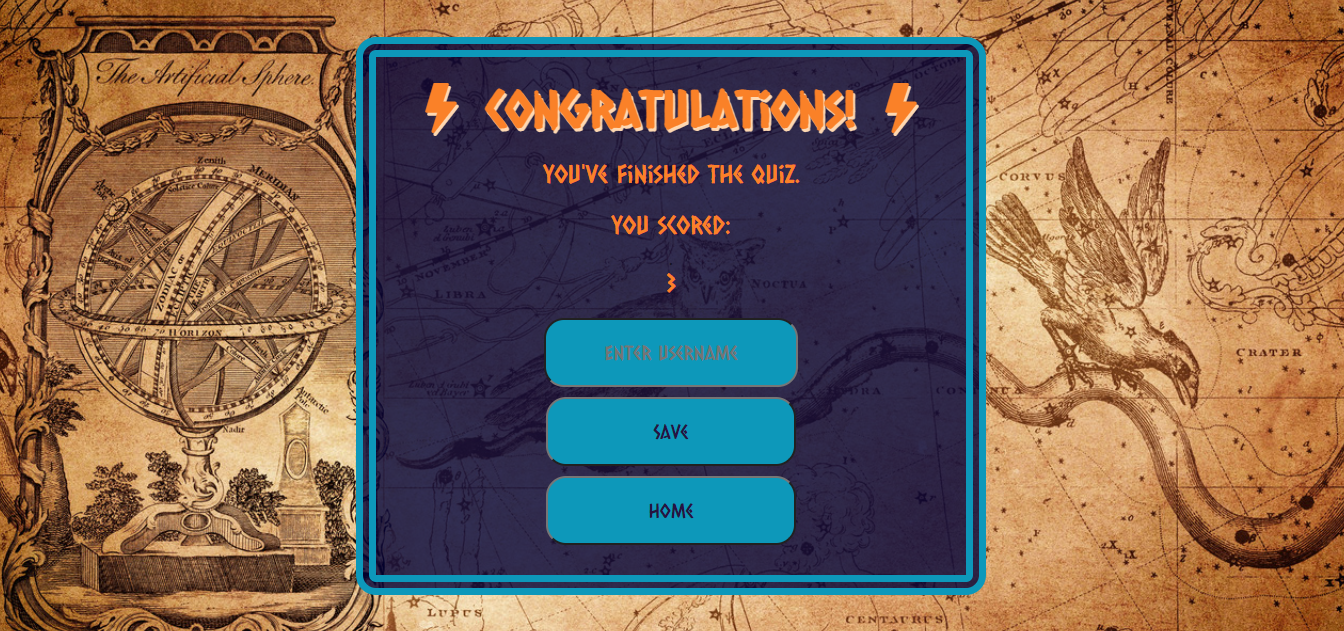
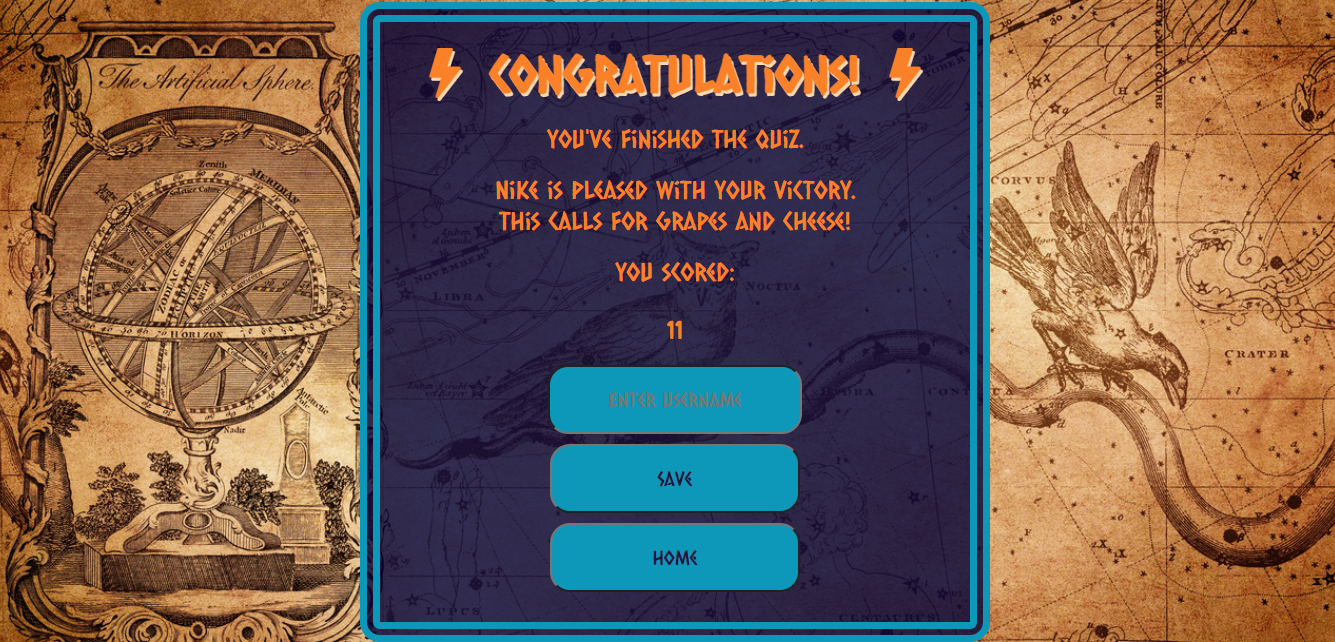
readme & personalised messages based on scores

diff --git a/assets/js/script.js b/assets/js/script.js
@@ -367,6 +367,7 @@ const updateQuestionNumber = document.getElementById('questionNumber');
 const question=document.getElementById('question');
 const answers=document.getElementById('answer-container');
 const wholeScore=document.getElementById('wholeScore');
+const scoreComment=document.getElementById('scoreComment');
 
 //Different 'page' containers
 
@@ -385,7 +386,7 @@ const homeButtonEnd=document.getElementById('homeButtonEnd');
 //Quiz features
 
 let questionCounter=0;
-let numberOfQuestions=1;
+let numberOfQuestions=15;
 let currentQuestion;
 let availableQuestions=[];
 let availableAnswers=[];
@@ -470,6 +471,15 @@ function newQuestion () {
         gamePage.classList.add('hide');
         endPage.classList.remove('hide');
         wholeScore.innerHTML=score;
+    if (score >=0 && score <=5) {
+        scoreComment.innerHTML="Speak to Mimir to gain some knowledge!";
+    }
+    if (score >=6 && score <=10) {
+        scoreComment.innerHTML="Keep trying like Huracan;<br>he got there eventually!"
+    }
+    else if (score>=11) {
+        scoreComment.innerHTML="Nike is pleased with your victory.<br>This calls for grapes and cheese!";
+    }
 //local storage
         localStorage.setItem('currentScore', score);
     }

diff --git a/assets/css/style.css b/assets/css/style.css
@@ -104,6 +104,7 @@ body {
 .bi-bank{
     font-size: 3rem;
     color:#2e145d;
+    width:100%;
 }
 
 .btn-home {
@@ -114,10 +115,7 @@ body {
     border-radius: 10px;
     padding: 1rem;
 }
-.btn-home:hover {
-    background-color: #261342;
-    color: #fa8128;
-}
+
 /*Display of leaderboard*/
 
 .leaderboard-display {
@@ -149,10 +147,17 @@ body {
     color: #fa8128;
 }
 
+.btn-home:hover {
+    background-color: #261342;
+    color: #fa8128;
+}
+
 .bi-bank:hover {
     font-size: 3rem;
     background-color: #261342;
     color: #fa8128;
+    width: fit-content;
+    height: 100%;
 }
 
 .btn:hover{

diff --git a/index.html b/index.html
@@ -46,6 +46,7 @@
     <div class="end-page container flex-column text-center hide" id="endPage">
         <h2 class="title"><i class="bi bi-lightning-fill"></i>Congratulations!<i class="bi bi-lightning-fill"></i><br></h2>
             <p class="tag-line">You've finished the quiz.</p>
+            <p class="tag-line" id="scoreComment"></p>
             <p class="tag-line">You scored:<br></p>
 <!--Updates score-->          
             ><p class="tag-line" id="wholeScore"></p>
